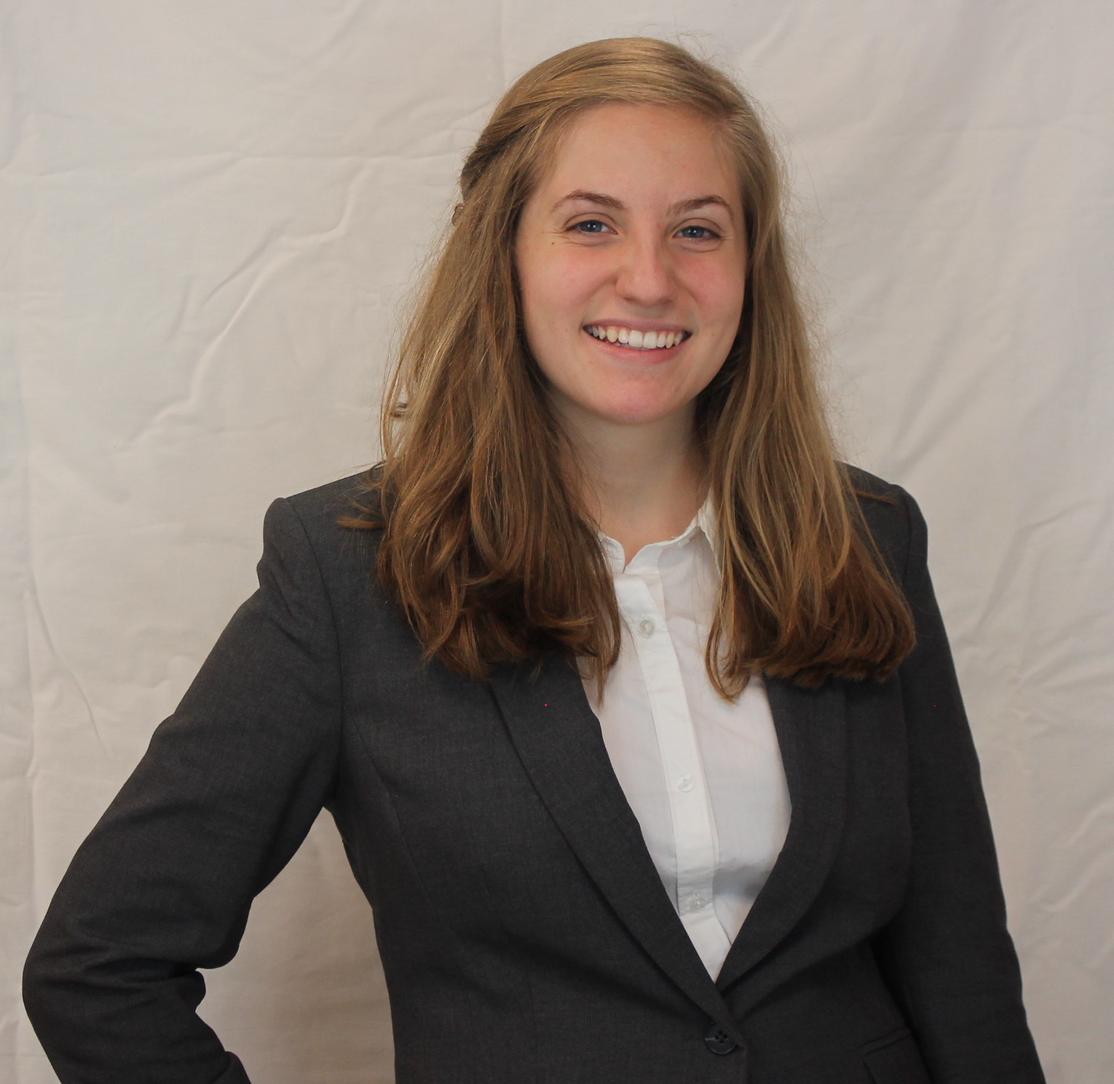
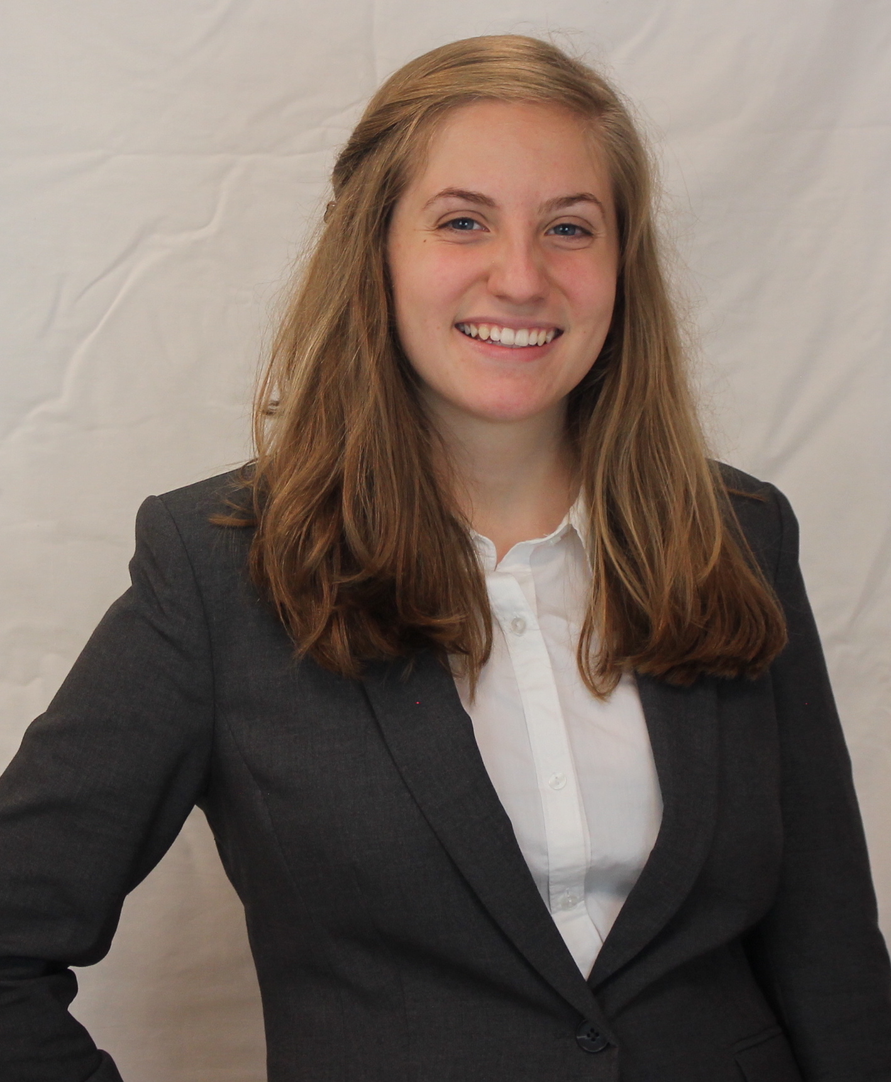
updated shape of picture
shaped picture to be bubble and cropped photo furthur

diff --git a/index.html b/index.html
@@ -1,12 +1,18 @@
 
 <html> 
         <head>    
-            <title>Hayley Allard-Raucci</title>  
+            <title>Hayley Allard-Raucci</title>
+            <style> 
+              img {
+                border-radius: 50%; 
+            }
+            
+            </style>  
             <a href = "about.html"> here</a>
         </head>  
         <body>    
             <p>My first website will be coming out soon.. </p>
-            <img src="/Pictures/Professional.JPG" style="width:250px;height:250px;"/>
+            <img src="/Pictures/Professional.JPG" style="width:250px;height:300px;"/>
         </body>
     </html>
     
